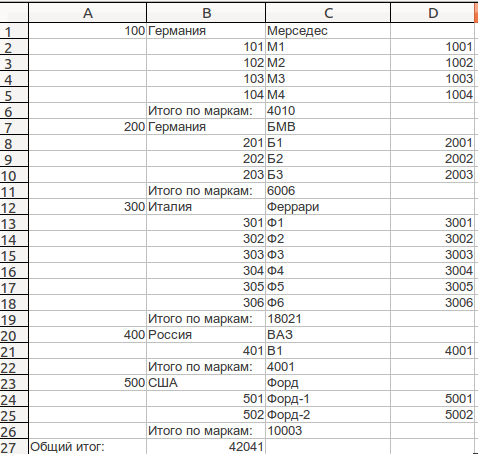
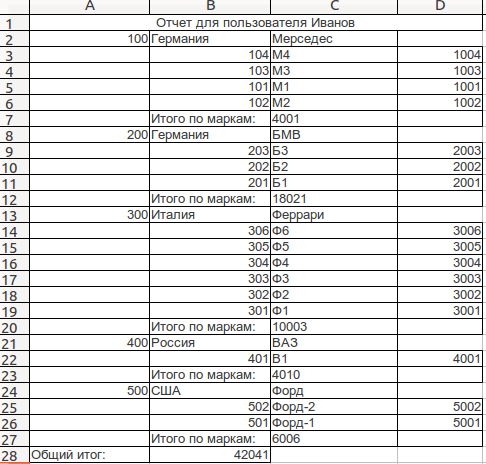
Доработки по документации конструктора

Changed region(s): [[0.0, 0.0, 1.0, 1.0]]

diff --git a/docs/source/report_generator/example.rst b/docs/source/report_generator/example.rst
@@ -1,9 +1,97 @@
-.. _example:
-
+*********************
 Примеры работы с КЗиО
-======================
+*********************
 
-.. toctree::
-    :maxdepth: 2
+Постановка задачи
+=================
 
-    example/typical_report.rst
+Имеется две модели: ``MarkCard`` и ``AutoCard``. Они связаны соотношением один ко многим.
+Необходимо составить табличный отчет, который будет выводить марку(запись из
+таблицы ``MarkCard``), все авто этой марки(связанные записи из таблицы ``AutoCard``), включая
+их цену, суммарную стоимость авто каждой марки. И в конце суммарную стоимость авто всех марок.
+
+Подготовка запросов
+====================
+
+Для реализации отчета необходимо подготовить 4 запроса:
+    1) Марки и связанные с ними авто.
+    2) Суммарная стоимость авто по маркам.
+    3) Суммарная стоимость всех авто.
+    4) Запрос на получение пользователя по его идентификатору.
+
+Для реализации первого запроса, необходимо добавить две модели ``MarkCard``, ``AutoCard`` и указать на их связь.
+
+.. image:: images/example/entities.png
+
+Далее добавляются поля и указываются их алиасы.
+
+.. image:: images/example/select_fields.png
+
+В данном примере алиасы необходимы лишь для удобства восприятия.
+Однако возникают ситуации, когда они жизненно необходимы. Например, несколько
+моделей имеют поля с одинаковым именем, а также запрос, который использует их.
+Тогда при повторном использовании запроса будет не понятно какое из полей мы имеем в виду.
+
+В данном запросе не используются группировки, агрегации и условия. Результат можно проверить нажав
+на кнопку "Показать текст запроса".
+
+.. image:: images/example/first_query_result.png
+
+Второй запрос можно реализовать, использую первый. Для этого, необходимо добавить его:
+
+.. image:: images/example/second_query_entity.png
+
+Добавляется поле "Цена авто" и указывается функция агрегации:
+
+.. image:: images/example/second_query_select_fields.png
+.. image:: images/example/second_query_group.png
+
+Важно отметить, что как и в главном запросе поле "Код марки" отсортировано. Это
+необходимо для соответствия записей из главного запроса и из данного.
+
+В данном запросе условия не указываются.
+
+.. image:: images/example/second_query_result.png
+
+Третий запрос можно реализовать например, используя второй
+
+.. image:: images/example/third_query_entity.png
+.. image:: images/example/third_query_select.png
+.. image:: images/example/third_query_group.png
+.. image:: images/example/third_query_result.png
+
+Четвертый запрос:
+
+.. image:: images/example/four_query_entity.png
+
+В данном запросе имеется условие:
+
+.. image:: images/example/four_query_where.png
+
+Так выглядит SQL - код запроса:
+
+.. image:: images/example/four_query_result.png
+
+Запросы, готовы.
+
+Построение отчета
+==================
+
+Для отчета используется следующий шаблон:
+
+.. image:: images/example/typical_example_template.png
+
+Все, что нужно добавить четыри созданных запроса в отчет, загрузить шаблон и соотнести их.
+
+.. image:: images/example/first-example.png
+
+.. image:: images/example/first_example_field_param.png
+
+Стоит обратить внимание на иерархию секций шаблона. Секции ``Auto`` и ``MarkItog``, являются
+дочерними по отношению к секции ``Mark``, т.к. вывод в эти секции должен чередоваться.
+Т.е. выводится запись в секцию ``Mark``, далее все записи, связанные с маркой, в секцию ``Auto`` и
+наконец запись в секцию ``MarkItog``, после чего все повторяется ...
+
+Вот так выглядит результат:
+
+.. image:: images/example/first-result.png

diff --git a/docs/source/report_generator/user/basic.rst b/docs/source/report_generator/user/basic.rst
@@ -19,12 +19,13 @@
 позволяет переложить часть работы с разработчика на аналитика.
 
 Конструктор запросов позволяет создавать сложные отчеты с многочисленными связями,
-агрегацией, группировками и простыми условиями.
+агрегацией, группировками и простыми условиями. Однако не поддерживается арифметика
+(кроме агрегирующих функций) и case инструкций.
 
 Конструктор отчетов узко специализирован. Дело в том, что при создании отчета средствами
 генератора отчетов ``simple_report`` разработчик управляет процессом вывода данных. Однако
 при создании отчета средствами КЗиО данная гибкость недостижима. Поэтому конструктор отчетов
-заточен на создание определенного типа отчетов.
+заточен на создание определенного типа отчетов(см. пример).
 
 Запуск КЗиО на платформе М3
 """""""""""""""""""""""""""""""""""""""""""
